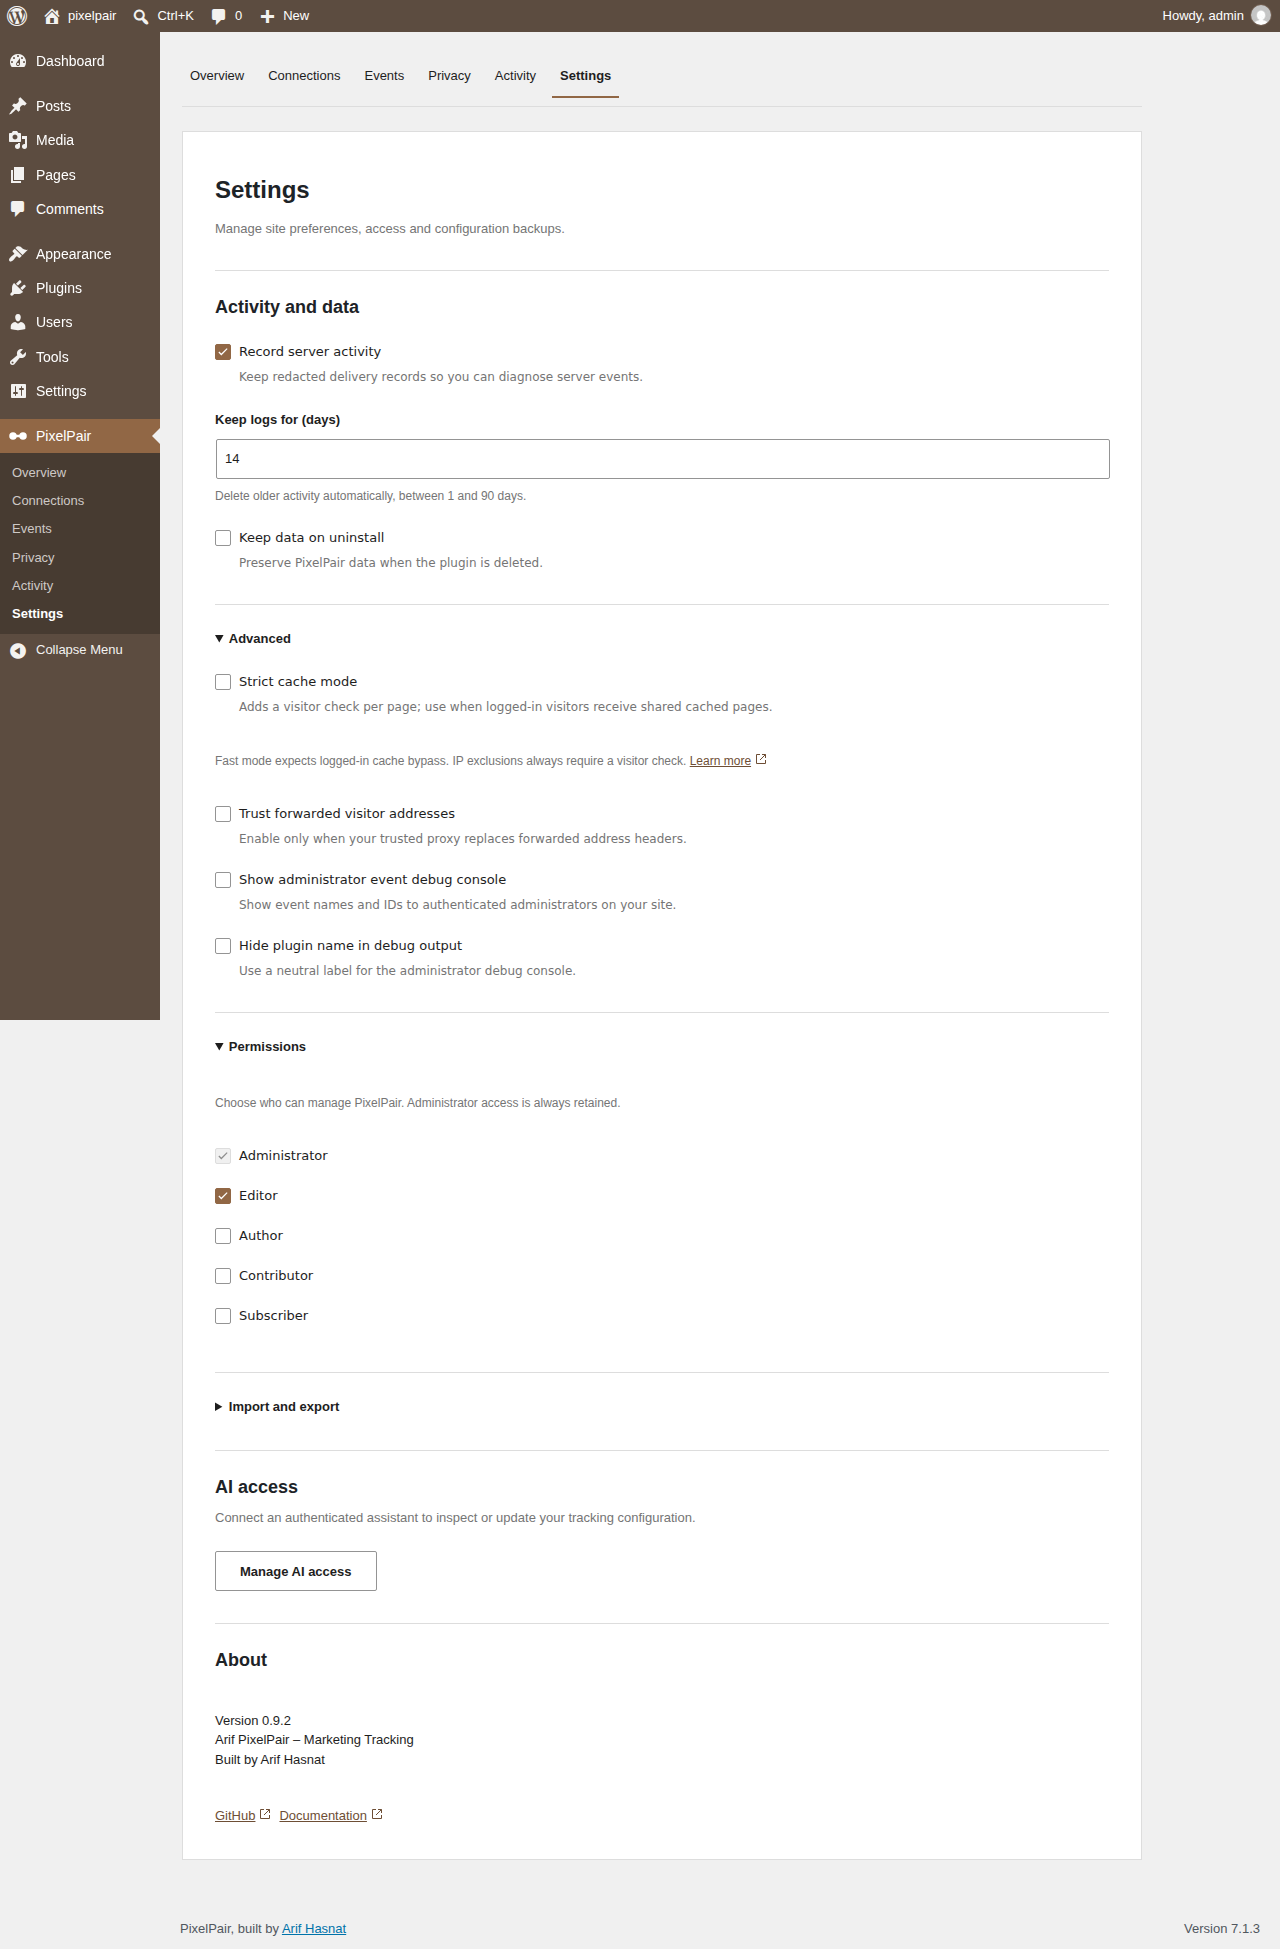
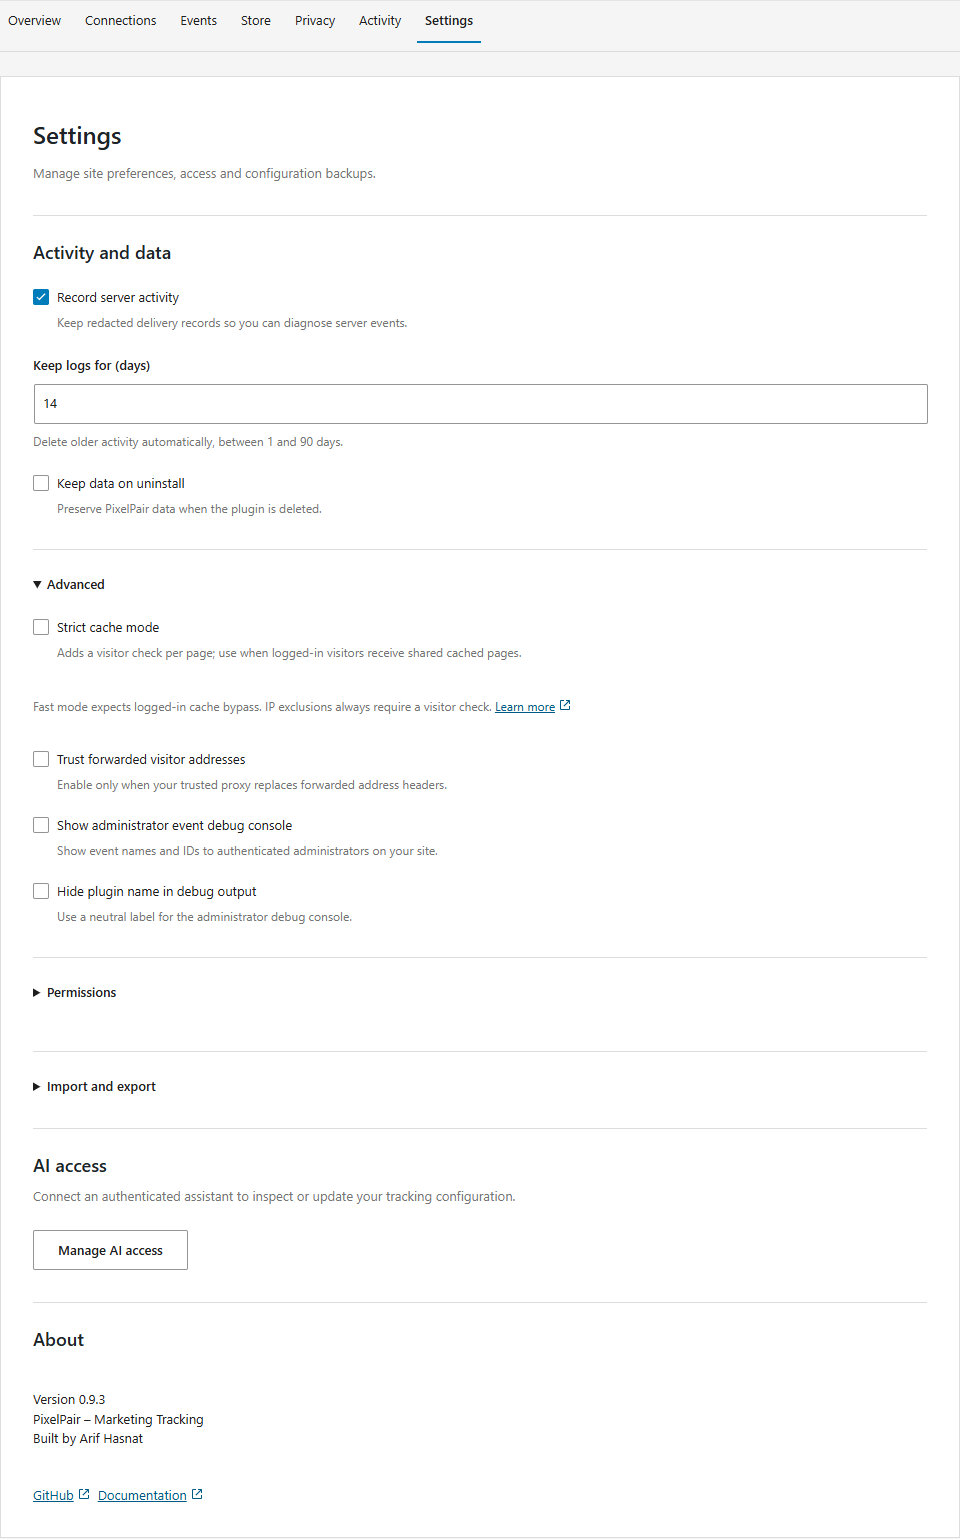
fix: use PixelPair product name without personal prefix

diff --git a/assets/src/admin/screens/Settings.js b/assets/src/admin/screens/Settings.js
@@ -330,7 +330,7 @@ function SettingsScreen( {
 						window.pixelpairAdmin?.version || ''
 					) }
 					<br />
-					{ __( 'Arif PixelPair – Marketing Tracking', 'pixelpair' ) }
+					{ __( 'PixelPair – Marketing Tracking', 'pixelpair' ) }
 					<br />
 					{ __( 'Built by Arif Hasnat', 'pixelpair' ) }
 				</p>

diff --git a/src/Admin/Menu.php b/src/Admin/Menu.php
@@ -13,7 +13,7 @@ namespace PixelPair\Admin;
 final class Menu {
 	/** Add one top-level menu for the site-scoped app. */
 	public function register(): void {
-		add_menu_page( __( 'Arif PixelPair – Marketing Tracking', 'pixelpair' ), __( 'PixelPair', 'pixelpair' ), 'manage_pixelpair', 'pixelpair', array( $this, 'render' ), self::icon() );
+		add_menu_page( __( 'PixelPair – Marketing Tracking', 'pixelpair' ), __( 'PixelPair', 'pixelpair' ), 'manage_pixelpair', 'pixelpair', array( $this, 'render' ), self::icon() );
 		add_submenu_page( 'pixelpair', __( 'Overview', 'pixelpair' ), __( 'Overview', 'pixelpair' ), 'manage_pixelpair', 'pixelpair', array( $this, 'render' ) );
 		$routes = array(
 			'connections' => __( 'Connections', 'pixelpair' ),

diff --git a/pixelpair.php b/pixelpair.php
@@ -1,9 +1,9 @@
 <?php
 /**
- * Plugin Name: Arif PixelPair – Marketing Tracking
+ * Plugin Name: PixelPair – Marketing Tracking
  * Plugin URI: https://github.com/arifhasnat3po/pixelpair-plugin
  * Description: Configure marketing pixels and conversion APIs from WordPress.
- * Version: 0.9.2
+ * Version: 0.9.3
  * Requires at least: 6.2
  * Requires PHP: 7.4
  * Author: Arif Hasnat
@@ -20,7 +20,7 @@
 
 defined( 'ABSPATH' ) || exit;
 
-define( 'PIXELPAIR_VERSION', '0.9.2' );
+define( 'PIXELPAIR_VERSION', '0.9.3' );
 define( 'PIXELPAIR_FILE', __FILE__ );
 define( 'PIXELPAIR_PATH', __DIR__ . '/' );
 

diff --git a/tests/php/BrandTest.php b/tests/php/BrandTest.php
@@ -25,7 +25,7 @@ final class BrandTest extends LifecycleTestCase {
 		$this->assertStringContainsString( 'fill="black"', $svg );
 		$this->assertStringNotContainsString( '<text', $svg );
 		$header = get_plugin_data( PIXELPAIR_FILE, false, false );
-		$this->assertSame( 'Arif PixelPair – Marketing Tracking', $header['Name'] );
+		$this->assertSame( 'PixelPair – Marketing Tracking', $header['Name'] );
 		$this->assertSame( 'Arif Hasnat', $header['Author'] );
 		$this->assertSame( 'https://github.com/arifhasnat3po', $header['AuthorURI'] );
 	}

diff --git a/README.md b/README.md
@@ -1,10 +1,10 @@
 <p align="left"><img src="brand/pixelpair-logo.svg" width="240" alt="PixelPair" /></p>
 
-# Arif PixelPair – Marketing Tracking
+# PixelPair – Marketing Tracking
 
 Independent marketing tracking integrations for WordPress.
 
-Arif PixelPair is independently developed by Arif Hasnat. It integrates with Meta, Google Analytics, Google Tag Manager, TikTok, WooCommerce and Easy Digital Downloads. It is not affiliated with or endorsed by those services or their owners.
+PixelPair is independently developed by Arif Hasnat. It integrates with Meta, Google Analytics, Google Tag Manager, TikTok, WooCommerce and Easy Digital Downloads. It is not affiliated with or endorsed by those services or their owners.
 
 Connect your advertising and analytics accounts, choose the events to track, and inspect server delivery from WordPress. PixelPair includes a skippable setup wizard, consent controls, a custom event builder, and WooCommerce and Easy Digital Downloads support.
 

diff --git a/CHANGELOG.md b/CHANGELOG.md
@@ -1,8 +1,14 @@
 # Changelog
 
+## 0.9.3 — Product name
+
+- Use PixelPair – Marketing Tracking without a personal-name prefix.
+- Update the plugin title, directory banners, documentation and translation source.
+- Preserve the pixelpair slug, settings and tracking behavior.
+
 ## 0.9.2 — Focused admin notices and independent identity
 
-- Use the display name Arif PixelPair – Marketing Tracking; keep the pixelpair slug and existing settings.
+- Clarify the independent project identity; keep the pixelpair slug and existing settings.
 - Scope consent recommendations to the plugin screen, retain secure dismissal and hide resolved recommendations.
 - Scope migration errors to relevant management screens.
 - Update directory banners, service disclosures, translations and documentation.

diff --git a/docs/guides/activity.md b/docs/guides/activity.md
@@ -10,4 +10,4 @@ Filter by platform, status and time range. Expand an entry to inspect the redact
 
 Activity reports server delivery attempts. It cannot establish that a browser event arrived or that an advertising platform deduplicated it. Verify those outcomes in the platform's own event manager.
 
-To diagnose missing browser events, follow [Troubleshooting](troubleshooting.md). Arif PixelPair loads each enabled platform through its connection settings; it does not include an arbitrary header or footer script editor.
+To diagnose missing browser events, follow [Troubleshooting](troubleshooting.md). PixelPair loads each enabled platform through its connection settings; it does not include an arbitrary header or footer script editor.

diff --git a/docs/README.md b/docs/README.md
@@ -1,4 +1,4 @@
-# Arif PixelPair documentation
+# PixelPair documentation
 
 Start with [Getting started](guides/getting-started.md) to install the built plugin and connect Meta. Every guide uses the labels shown in WordPress.
 
